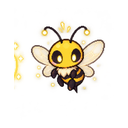
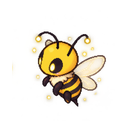
fix: bee motion long sting and red bee spawn

Changed region(s): [[0.2188, 0.1562, 0.8438, 0.8438], [0.0938, 0.3125, 0.1875, 0.6562]]

diff --git a/src/enemies/RedBee.ts b/src/enemies/RedBee.ts
@@ -2,31 +2,35 @@ import { intersects } from '../game/Collision';
 import type { EnemyContext } from './Enemy';
 import { Enemy } from './Enemy';
 
-export type BeeState = 'fly' | 'windup' | 'sting' | 'recover';
+export type RedBeeState = 'fly' | 'windup' | 'sting' | 'recover';
 
-const MAX_HP = 28;
-const HOVER_SPEED = 2.05;
-const STING_SPEED = 9.8;
-const STING_DAMAGE = 8;
-const STING_RANGE = 195;
-const WINDUP_TIME = 0.18;
-const STING_TIME = 0.62;
-const RECOVER_TIME = 0.30;
-const POISON_CHANCE = 0.55;
-const POISON_DURATION = 4.8;
-const POISON_INTERVAL = 1.0;
+const MAX_HP = 38;
+const HOVER_SPEED = 2.22;
+const STING_SPEED = 10.2;
+const STING_DAMAGE = 10;
+const STING_RANGE = 205;
+const WINDUP_TIME = 0.16;
+const STING_TIME = 0.64;
+const RECOVER_TIME = 0.28;
+const POISON_CHANCE = 0.75;
+const SEVERE_POISON_CHANCE = 0.50;
+const DECAY_CHANCE = 0.30;
+const TOXIN_DURATION = 999;
+const TOXIN_INTERVAL = 1.0;
 const POISON_DAMAGE = 2;
+const SEVERE_POISON_DAMAGE = 4;
+const DECAY_DAMAGE = 7;
 const DRAW_SIZE = 54;
 
 const flyUrls = [1, 2, 3, 4].map((index) =>
   new URL(
-    `../../assets/monsters/bee/fly_${String(index).padStart(2, '0')}.png`,
+    `../../assets/monsters/red_bee/fly_${String(index).padStart(2, '0')}.png`,
     import.meta.url,
   ).href,
 );
 const stingUrls = [1, 2].map((index) =>
   new URL(
-    `../../assets/monsters/bee/sting_${String(index).padStart(2, '0')}.png`,
+    `../../assets/monsters/red_bee/sting_${String(index).padStart(2, '0')}.png`,
     import.meta.url,
   ).href,
 );
@@ -34,9 +38,9 @@ const stingUrls = [1, 2].map((index) =>
 const flyImages: HTMLImageElement[] = [];
 const stingImages: HTMLImageElement[] = [];
 
-export class Bee extends Enemy {
-  readonly type = 'bee' as const;
-  state: BeeState = 'fly';
+export class RedBee extends Enemy {
+  readonly type = 'redBee' as const;
+  state: RedBeeState = 'fly';
   private stateTime = 0;
   private stingHit = false;
   private targetX = 0;
@@ -44,15 +48,15 @@ export class Bee extends Enemy {
   private readonly orbitPhase = Math.random() * Math.PI * 2;
   private readonly hoverPhase = Math.random() * Math.PI * 2;
   private readonly strafeBias = (Math.random() * 2 - 1) * 0.95;
-  private readonly preferredDistance = 92 + Math.random() * 42;
-  private readonly hoverSpeedScale = 0.92 + Math.random() * 0.22;
-  private readonly verticalBias = -28 - Math.random() * 24;
+  private readonly preferredDistance = 88 + Math.random() * 44;
+  private readonly hoverSpeedScale = 0.94 + Math.random() * 0.20;
+  private readonly verticalBias = -30 - Math.random() * 26;
   private facingCandidate: -1 | 1 = 1;
   private facingCandidateTime = 0;
 
   constructor(x: number, y: number) {
     super(x, y, 24, 20, MAX_HP, MAX_HP);
-    this.cooldown = 0.55 + Math.random() * 0.9;
+    this.cooldown = 0.48 + Math.random() * 0.82;
     this.facing = Math.random() < 0.5 ? -1 : 1;
     this.facingCandidate = this.facing;
   }
@@ -75,7 +79,7 @@ export class Bee extends Enemy {
   protected onKnockbackEnd(): void {
     this.state = 'fly';
     this.stateTime = 0;
-    this.cooldown = Math.max(this.cooldown, 0.55 + Math.random() * 0.45);
+    this.cooldown = Math.max(this.cooldown, 0.5 + Math.random() * 0.4);
     this.vy = 0;
   }
 
@@ -120,12 +124,19 @@ export class Bee extends Enemy {
     if (this.state === 'sting') {
       this.x += this.vx;
       this.y += this.vy;
-      // Keep the attack-facing chosen at launch. Do not flicker from tiny velocity changes.
 
       if (!this.stingHit && intersects(this, context.player)) {
         const hit = context.hurtPlayer(STING_DAMAGE, this.x + this.w / 2);
-        if (hit && Math.random() < POISON_CHANCE) {
-          context.poisonPlayer(POISON_DURATION, POISON_INTERVAL, POISON_DAMAGE);
+        if (hit) {
+          if (Math.random() < POISON_CHANCE) {
+            context.poisonPlayer(TOXIN_DURATION, TOXIN_INTERVAL, POISON_DAMAGE);
+          }
+          if (Math.random() < SEVERE_POISON_CHANCE) {
+            context.severePoisonPlayer(TOXIN_DURATION, TOXIN_INTERVAL, SEVERE_POISON_DAMAGE);
+          }
+          if (Math.random() < DECAY_CHANCE) {
+            context.decayPlayer(TOXIN_DURATION, TOXIN_INTERVAL, DECAY_DAMAGE);
+          }
         }
         this.stingHit = true;
       }
@@ -145,13 +156,12 @@ export class Bee extends Enemy {
       this.y += this.vy;
       this.vx *= 0.88;
       this.vy *= 0.88;
-      // Recovery keeps the sting direction until normal flight resumes.
       this.keepInStage(context);
 
       if (this.stateTime >= RECOVER_TIME) {
         this.state = 'fly';
         this.stateTime = 0;
-        this.cooldown = 0.55 + Math.random() * 0.8;
+        this.cooldown = 0.48 + Math.random() * 0.76;
       }
       return;
     }
@@ -165,34 +175,32 @@ export class Bee extends Enemy {
       const awayX = centerX - otherCenterX;
       const awayY = centerY - otherCenterY;
       const gap = Math.hypot(awayX, awayY);
-      if (gap <= 0.001 || gap > 74) continue;
-      const strength = (74 - gap) / 74;
-      separationX += (awayX / gap) * strength * 1.25;
-      separationY += (awayY / gap) * strength * 1.25;
+      if (gap <= 0.001 || gap > 78) continue;
+      const strength = (78 - gap) / 78;
+      separationX += (awayX / gap) * strength * 1.28;
+      separationY += (awayY / gap) * strength * 1.28;
     }
 
     const towardX = dx / distance;
     const towardY = dy / distance;
-    const approach = distance > this.preferredDistance ? 1 : distance < 74 ? -0.55 : 0.14;
-    const orbit = Math.sin(this.actionTime * 3.1 + this.orbitPhase) * 0.52 + this.strafeBias * 0.34;
-    const hoverWave = Math.sin(this.actionTime * 4.2 + this.hoverPhase) * 0.42;
+    const approach = distance > this.preferredDistance ? 1 : distance < 72 ? -0.55 : 0.14;
+    const orbit = Math.sin(this.actionTime * 3.2 + this.orbitPhase) * 0.54 + this.strafeBias * 0.36;
+    const hoverWave = Math.sin(this.actionTime * 4.3 + this.hoverPhase) * 0.44;
 
-    // Facing follows the broad travel intent, not the small orbit wiggle.
-    // This prevents bees from rapidly looking left/right while still moving in one general direction.
     const travelIntentX =
       towardX * HOVER_SPEED * this.hoverSpeedScale * approach +
-      separationX * 0.48;
+      separationX * 0.50;
     const targetVx =
       travelIntentX +
-      orbit * 0.34 +
-      separationX * 0.60;
+      orbit * 0.36 +
+      separationX * 0.62;
     const targetVy =
       towardY * HOVER_SPEED * this.hoverSpeedScale * approach +
-      hoverWave * 0.36 +
-      separationY * 1.08;
+      hoverWave * 0.38 +
+      separationY * 1.10;
 
-    this.vx += (targetVx - this.vx) * Math.min(1, dt * 5.2);
-    this.vy += (targetVy - this.vy) * Math.min(1, dt * 4.8);
+    this.vx += (targetVx - this.vx) * Math.min(1, dt * 5.3);
+    this.vy += (targetVy - this.vy) * Math.min(1, dt * 4.9);
     this.x += this.vx;
     this.y += this.vy;
     this.updateTravelFacing(dt, travelIntentX, 0.42);
@@ -243,14 +251,14 @@ export class Bee extends Enemy {
 
     const centerX = this.x + this.w / 2;
     const centerY = this.y + this.h / 2;
-    const bob = this.state === 'fly' ? Math.sin(this.actionTime * 7.2 + this.hoverPhase) * 0.7 : 0;
+    const bob = this.state === 'fly' ? Math.sin(this.actionTime * 7.4 + this.hoverPhase) * 0.7 : 0;
 
     ctx.save();
     ctx.globalAlpha = 1;
     ctx.globalCompositeOperation = 'source-over';
     ctx.imageSmoothingEnabled = false;
     ctx.translate(Math.round(centerX), Math.round(centerY + bob));
-    // Bee art is authored facing left. Mirror only for right-facing movement/attack.
+    // Red bee uses the exact yellow-bee silhouette and left-facing source orientation.
     if (this.facing > 0) ctx.scale(-1, 1);
 
     if (this.state === 'windup') {
@@ -286,7 +294,7 @@ function loadImage(src: string): Promise<HTMLImageElement> {
   return new Promise((resolve, reject) => {
     const image = new Image();
     image.onload = () => resolve(image);
-    image.onerror = () => reject(new Error(`Bee image load failed: ${src}`));
+    image.onerror = () => reject(new Error(`RedBee image load failed: ${src}`));
     image.src = src;
   });
 }

diff --git a/src/game/Game.ts b/src/game/Game.ts
@@ -9,6 +9,7 @@ import { Ahriman } from '../enemies/Ahriman';
 import { Snake } from '../enemies/Snake';
 import { Bat } from '../enemies/Bat';
 import { Bee } from '../enemies/Bee';
+import { RedBee } from '../enemies/RedBee';
 import { Roper } from '../enemies/Roper';
 import { Slug } from '../enemies/Slug';
 import { Rat } from '../enemies/Rat';
@@ -130,6 +131,7 @@ export class Game {
       CrystalEye.loadAssets(),
       Kagenoko.loadAssets(),
       Bee.loadAssets(),
+      RedBee.loadAssets(),
       Kyokoki.loadAssets(),
       ThreeWiseMonkey.loadAssets(),
       TreasureChest.loadAssets(),
@@ -252,6 +254,20 @@ export class Game {
           const wasPoisoned = this.player.poisoned;
           this.player.applyPoison(duration, tickInterval, damage);
           if (!wasPoisoned) this.showNotice('毒状態になった');
+          this.refreshUi();
+        },
+        severePoisonPlayer: (duration, tickInterval, damage) => {
+          if (this.resistsStatusEffect()) return;
+          const wasActive = this.player.severelyPoisoned;
+          this.player.applySeverePoison(duration, tickInterval, damage);
+          if (!wasActive) this.showNotice('猛毒状態になった');
+          this.refreshUi();
+        },
+        decayPlayer: (duration, tickInterval, damage) => {
+          if (this.resistsStatusEffect()) return;
+          const wasActive = this.player.decaying;
+          this.player.applyDecay(duration, tickInterval, damage);
+          if (!wasActive) this.showNotice('腐敗状態になった');
           this.refreshUi();
         },
         paralyzePlayer: (duration) => {
@@ -936,6 +952,7 @@ export class Game {
       | 'snake'
       | 'bat'
       | 'bee'
+      | 'redBee'
       | 'roper'
       | 'slug'
       | 'rat'
@@ -960,6 +977,7 @@ export class Game {
       snake: 2,
       bat: 2,
       bee: 2,
+      redBee: 2,
       roper: 1,
       slug: 1,
       rat: 1,
@@ -1010,6 +1028,7 @@ export class Game {
       crystalEye: 2,
       ahriman: 3,
       bee: 4,
+      redBee: 3,
       roper: 3,
       frostMite: 3,
       kagenoko: 3,
@@ -1070,6 +1089,10 @@ export class Game {
         case 'bee': {
           const p = randomAirPoint(28, 24, 120, Math.max(180, this.stage.height - 190));
           return new Bee(p.x, p.y);
+        }
+        case 'redBee': {
+          const p = randomAirPoint(28, 24, 120, Math.max(180, this.stage.height - 190));
+          return new RedBee(p.x, p.y);
         }
         case 'roper': {
           const p = randomGroundPoint(58, 42);
@@ -1144,6 +1167,8 @@ export class Game {
     const enemyCount = Math.ceil((minEnemies + Math.floor(Math.random() * (maxEnemies - minEnemies + 1))) * 1.5);
 
     const generatedEnemies: Enemy[] = [];
+    // Keep at least one Red Bee visible on every floor so the new enemy cannot disappear by weight rolls.
+    generatedEnemies.push(spawnEnemy('redBee'));
     for (let index = 0; index < enemyCount; index += 1) {
       generatedEnemies.push(spawnEnemy(pickKind()));
     }
@@ -1240,7 +1265,7 @@ export class Game {
     if (!item) return;
 
     if (item.effect === 'antidote') {
-      if (!this.player.poisoned) {
+      if (!this.player.toxinAffected) {
         this.showNotice(String.fromCodePoint(0x6bd2, 0x72b6, 0x614b, 0x3067, 0x306f, 0x306a, 0x3044));
         return;
       }
@@ -1274,6 +1299,7 @@ export class Game {
 
   private drawEnemySprite(ctx: CanvasRenderingContext2D, enemy: Enemy): void {
     if (enemy.type === 'bee') (enemy as Bee).draw(ctx);
+    else if (enemy.type === 'redBee') (enemy as RedBee).draw(ctx);
     else if (enemy.type === 'crystalEye') (enemy as CrystalEye).draw(ctx);
     else if (enemy.type === 'kagenoko') (enemy as Kagenoko).draw(ctx);
     else if (enemy.type === 'kyokoki') (enemy as Kyokoki).draw(ctx);
@@ -1544,6 +1570,7 @@ export class Game {
       const width =
         enemy.type === 'ahriman' ? 48 :
         enemy.type === 'bee' ? 40 :
+        enemy.type === 'redBee' ? 40 :
         enemy.type === 'goblin' ? 42 :
         enemy.type === 'skeleton' ? 44 :
         enemy.type === 'skeletonArcher' ? 44 :
@@ -1567,6 +1594,7 @@ export class Game {
         enemy.type === 'ahriman' ? enemy.y - 18 :
         enemy.type === 'bat' ? enemy.y - 16 :
         enemy.type === 'bee' ? enemy.y - 28 :
+        enemy.type === 'redBee' ? enemy.y - 28 :
         enemy.type === 'snake' ? enemy.y - 22 :
         enemy.type === 'slug' ? enemy.y - 15 :
         enemy.type === 'rat' ? enemy.y - 17 :

diff --git a/src/enemies/Enemy.ts b/src/enemies/Enemy.ts
@@ -11,6 +11,8 @@ export interface EnemyContext {
   allies: Enemy[];
   hurtPlayer: (damage: number, sourceX: number) => boolean;
   poisonPlayer: (duration: number, tickInterval: number, damage: number) => void;
+  severePoisonPlayer: (duration: number, tickInterval: number, damage: number) => void;
+  decayPlayer: (duration: number, tickInterval: number, damage: number) => void;
   paralyzePlayer: (duration: number) => void;
   slowPlayer: (duration: number) => void;
   sealPlayer: (duration: number) => void;
@@ -30,6 +32,7 @@ export type EnemyKind =
   | 'snake'
   | 'bat'
   | 'bee'
+  | 'redBee'
   | 'roper'
   | 'slug'
   | 'rat'
@@ -84,6 +87,10 @@ const AWARENESS: Record<EnemyKind, AwarenessProfile> = {
   bee: {
     detectX: 360, detectY: 235, loseX: 510, loseY: 340, memory: 2.6,
     idleStyle: 'hoverWide', idleSpeed: 0.34, idleRadius: 120, moveChance: 1,
+  },
+  redBee: {
+    detectX: 390, detectY: 255, loseX: 540, loseY: 365, memory: 2.9,
+    idleStyle: 'hoverWide', idleSpeed: 0.42, idleRadius: 138, moveChance: 1,
   },
   roper: {
     detectX: 210, detectY: 140, loseX: 295, loseY: 205, memory: 2.2,
